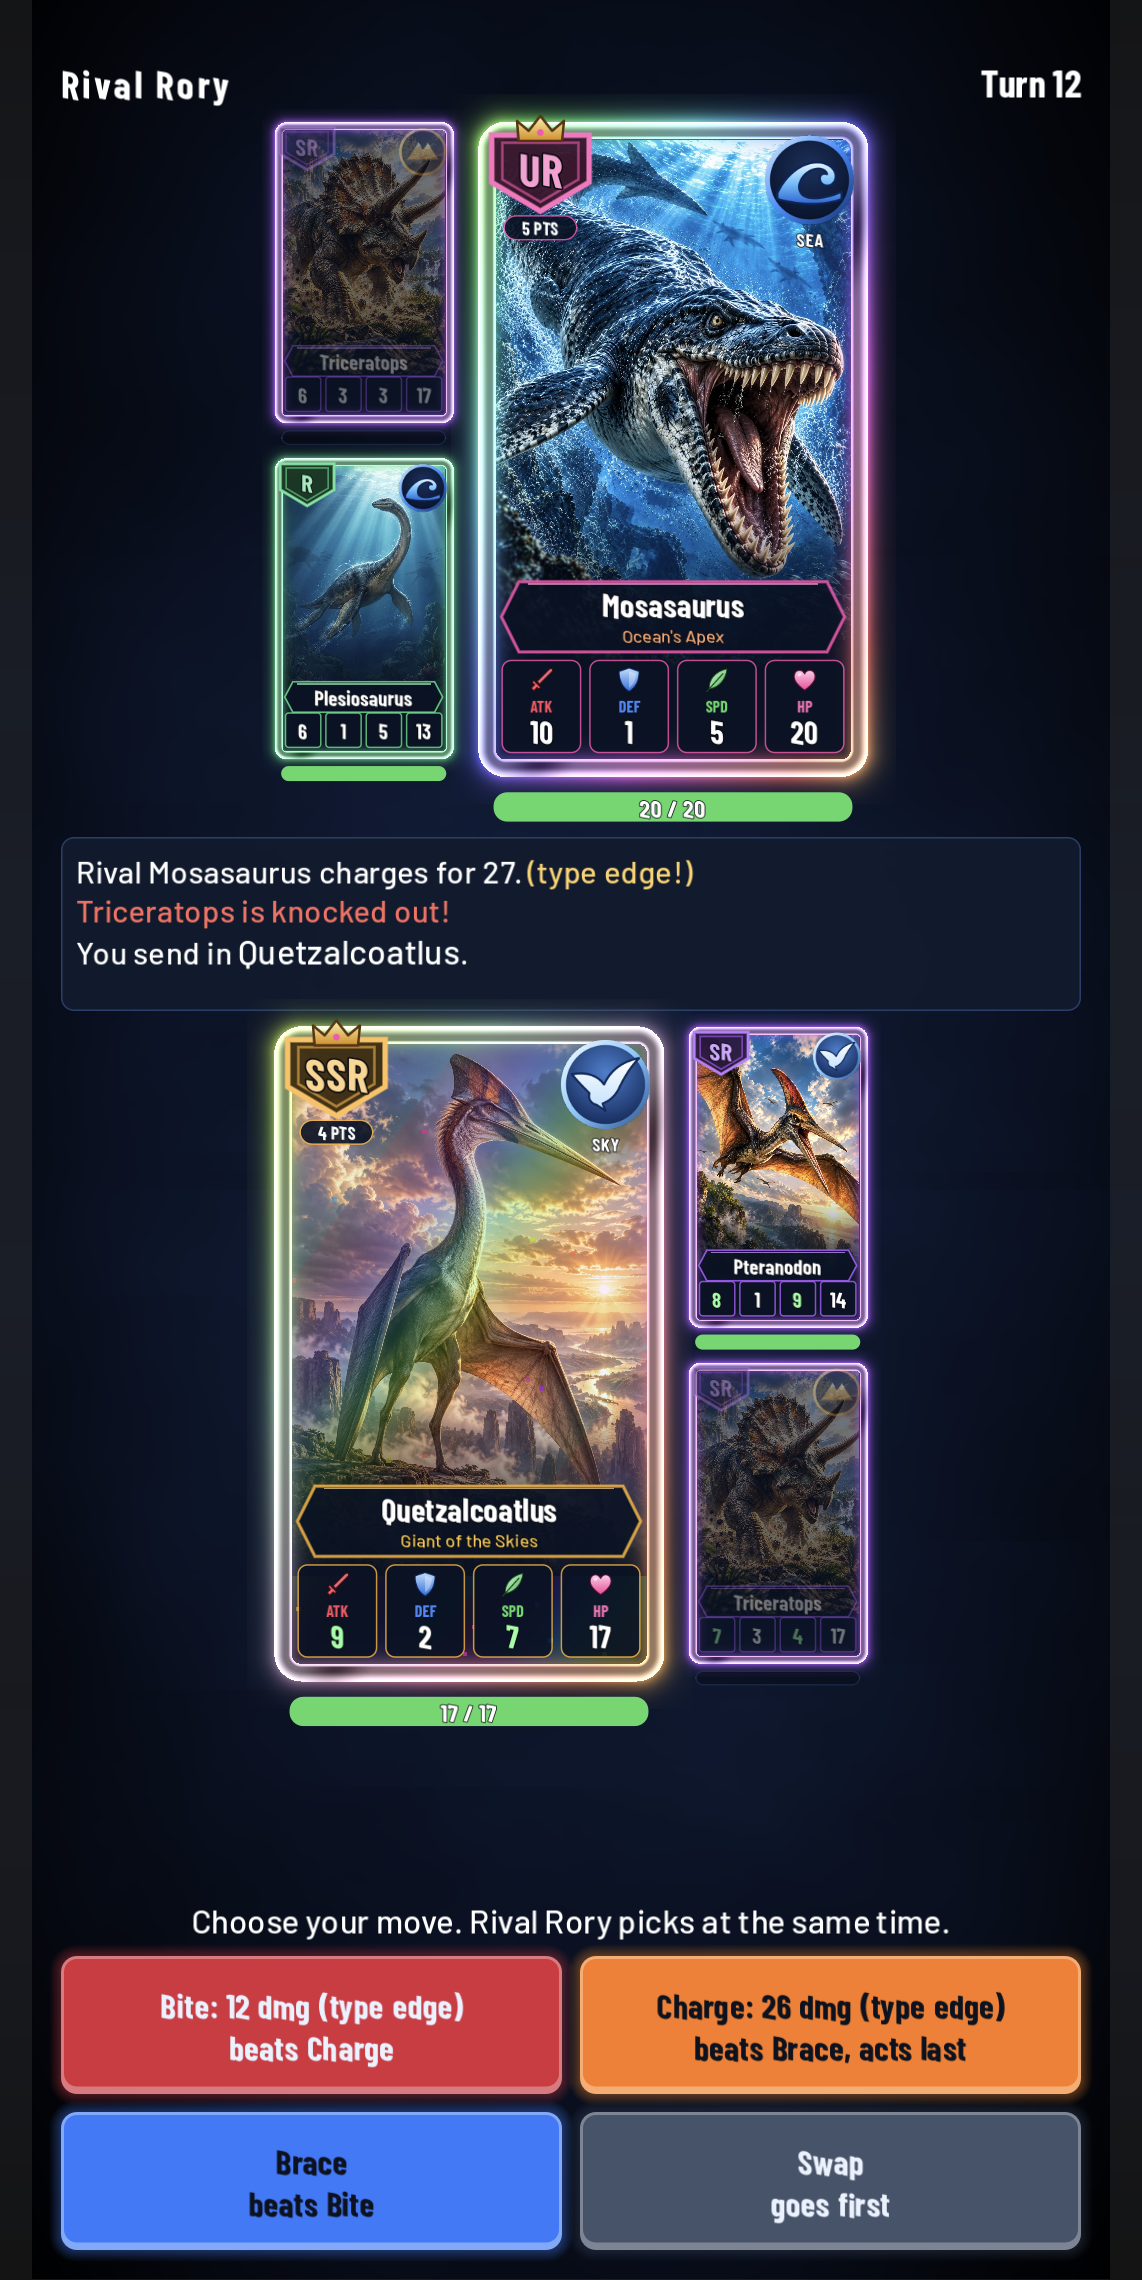
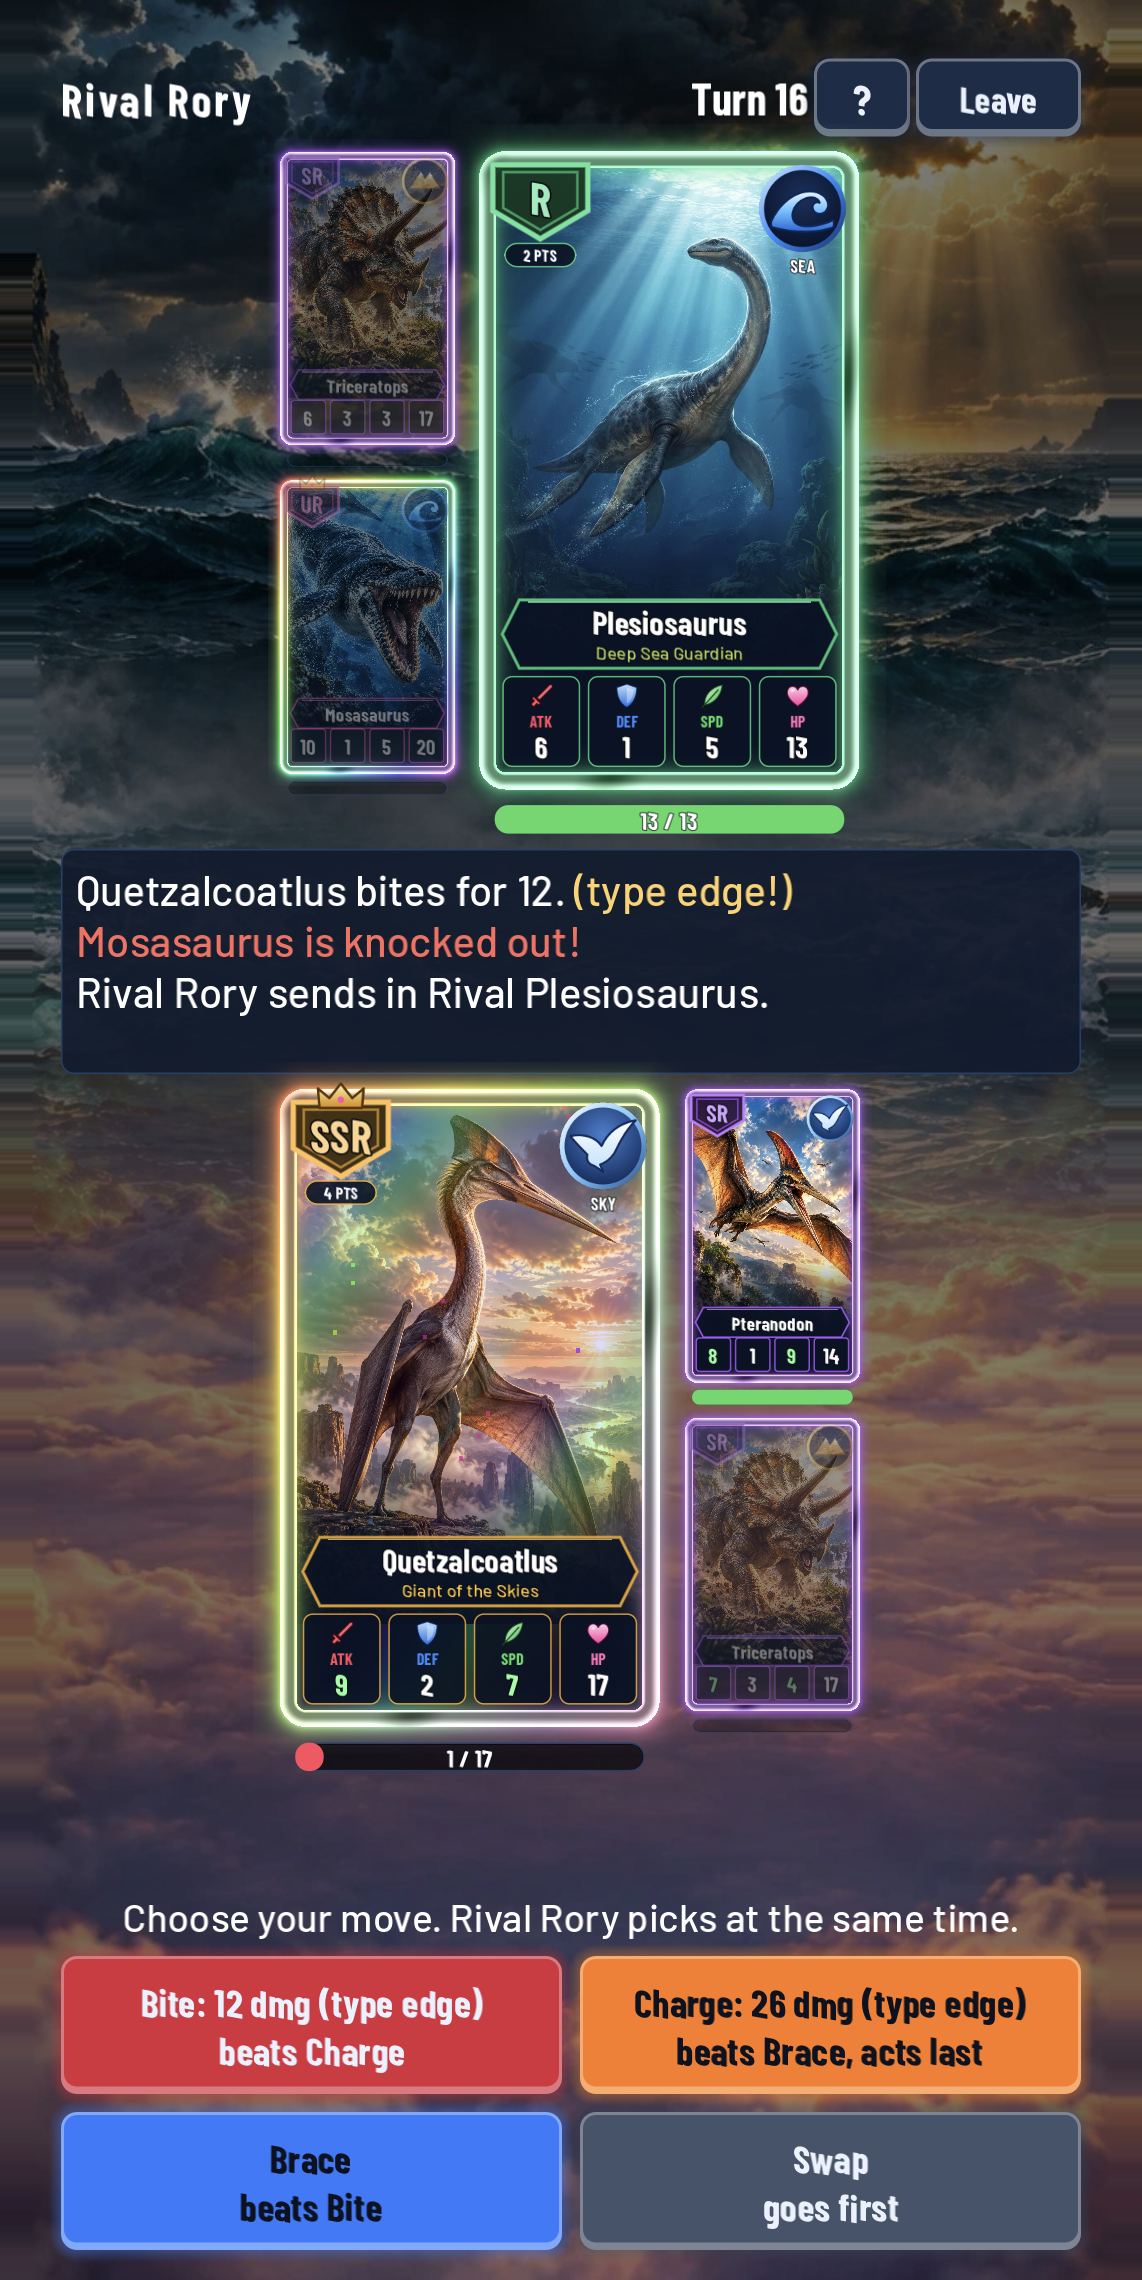
Leave battle (forfeit), hold-to-zoom tip, new store screenshots
- Leave button (and Android back) in battle, with a confirmation.
  Leaving counts as a loss against that rival with no Amber; an
  unfinished coached battle keeps the coach for next time.
- How to play mentions holding a card to see it bigger.
- Seven new Play screenshots from the phone: battle with type-edge
  backgrounds, Legendary hatch, shiny T. rex, partner pick, coached
  first battle, Dex, Rivals. Website screenshots updated to match.

diff --git a/docs/index.html b/docs/index.html
@@ -82,7 +82,7 @@
         <img src="site/01_battle.jpg" alt="A battle against Rival Rory" width="420" height="839" loading="lazy">
         <img src="site/02_hatch_legendary.jpg" alt="Hatching a Legendary Brachiosaurus" width="420" height="839" loading="lazy">
         <img src="site/03_card_t_rex_shiny.jpg" alt="The Shiny Tyrannosaurus Rex card" width="420" height="839" loading="lazy">
-        <img src="site/04_dex_cretaceous.jpg" alt="The Dino Dex, Cretaceous section" width="420" height="839" loading="lazy">
+        <img src="site/04_choose_partner.jpg" alt="Choosing a partner dino" width="420" height="839" loading="lazy">
       </div>
     </section>
   </main>

diff --git a/docs/GAME_DESIGN.md b/docs/GAME_DESIGN.md
@@ -100,6 +100,7 @@ Bottom tabs: **Battle** (rivals), **Party** (pick your 6), **Eggs** (hatch, dail
 - A new player's **first battle is coached** (`Session.wants_coach()`; done once it ends or the player taps "Skip tips"). The Battle tab marks the first rival "Start here", and the pick screen explains Party Points and Balanced.
 - The battle opens with the "Battle moves" help card. For the first 3 turns the rival's moves are scripted (Bite, Brace, Charge) and the coach suggests the counter (Brace, Charge, Bite) with a pulsing button, so the player meets the whole triangle. After that the rival plays normally and the coach gives one-time tips (type edge, bad matchup, low HP, knocked out).
 - A **? button** in every battle (and How to play in Settings) reopens 4 pages: moves, types, party, eggs and Amber.
+- **Leaving a battle** (Leave button or Android back, with a confirmation) is a forfeit: a loss in the record, no Amber (decided 2026-10-08; a normal loss pays 10 Amber, so paying forfeits would let players farm it).
 
 ## Audio (decided 2026-10-08)
 - Sound effects: Kenney CC0 packs (`assets/audio/CREDITS.md`), played through `Sound` (`app/sound.gd`). Every button taps automatically; battles, eggs and hatching have their own sounds.

diff --git a/docs/store/STORE_LISTING.md b/docs/store/STORE_LISTING.md
@@ -45,7 +45,7 @@ Draft text and answers for Play Console. Jo edits the wording; character limits 
 |---|---|---|
 | App icon | `assets/branding/app_icon_512.png` | 512 x 512 PNG |
 | Feature graphic | `feature_graphic.png` (rendered by `tools/feature_graphic.tscn`) | 1024 x 500 PNG/JPEG, no alpha |
-| Phone screenshots | `screenshots/01..06_*.png` (1142 x 2280) | 2-8 images, 320-3840 px, at most 2:1 |
+| Phone screenshots | `screenshots/01..07_*.png` (1142 x 2280; retaken 2026-10-08 for 0.3.0) | 2-8 images, 320-3840 px, at most 2:1 |
 
 Screenshots come from the phone with the debug-only `--store-shots` showcase save (see `app/session.gd`), so the DEV button never appears. To retake, put the flags in `user://dev_args.txt` on the phone (adb push + `run-as ... cp`), relaunch, and `adb exec-out screencap -p`. Delete `dev_args.txt` afterwards or every launch uses it.
 
